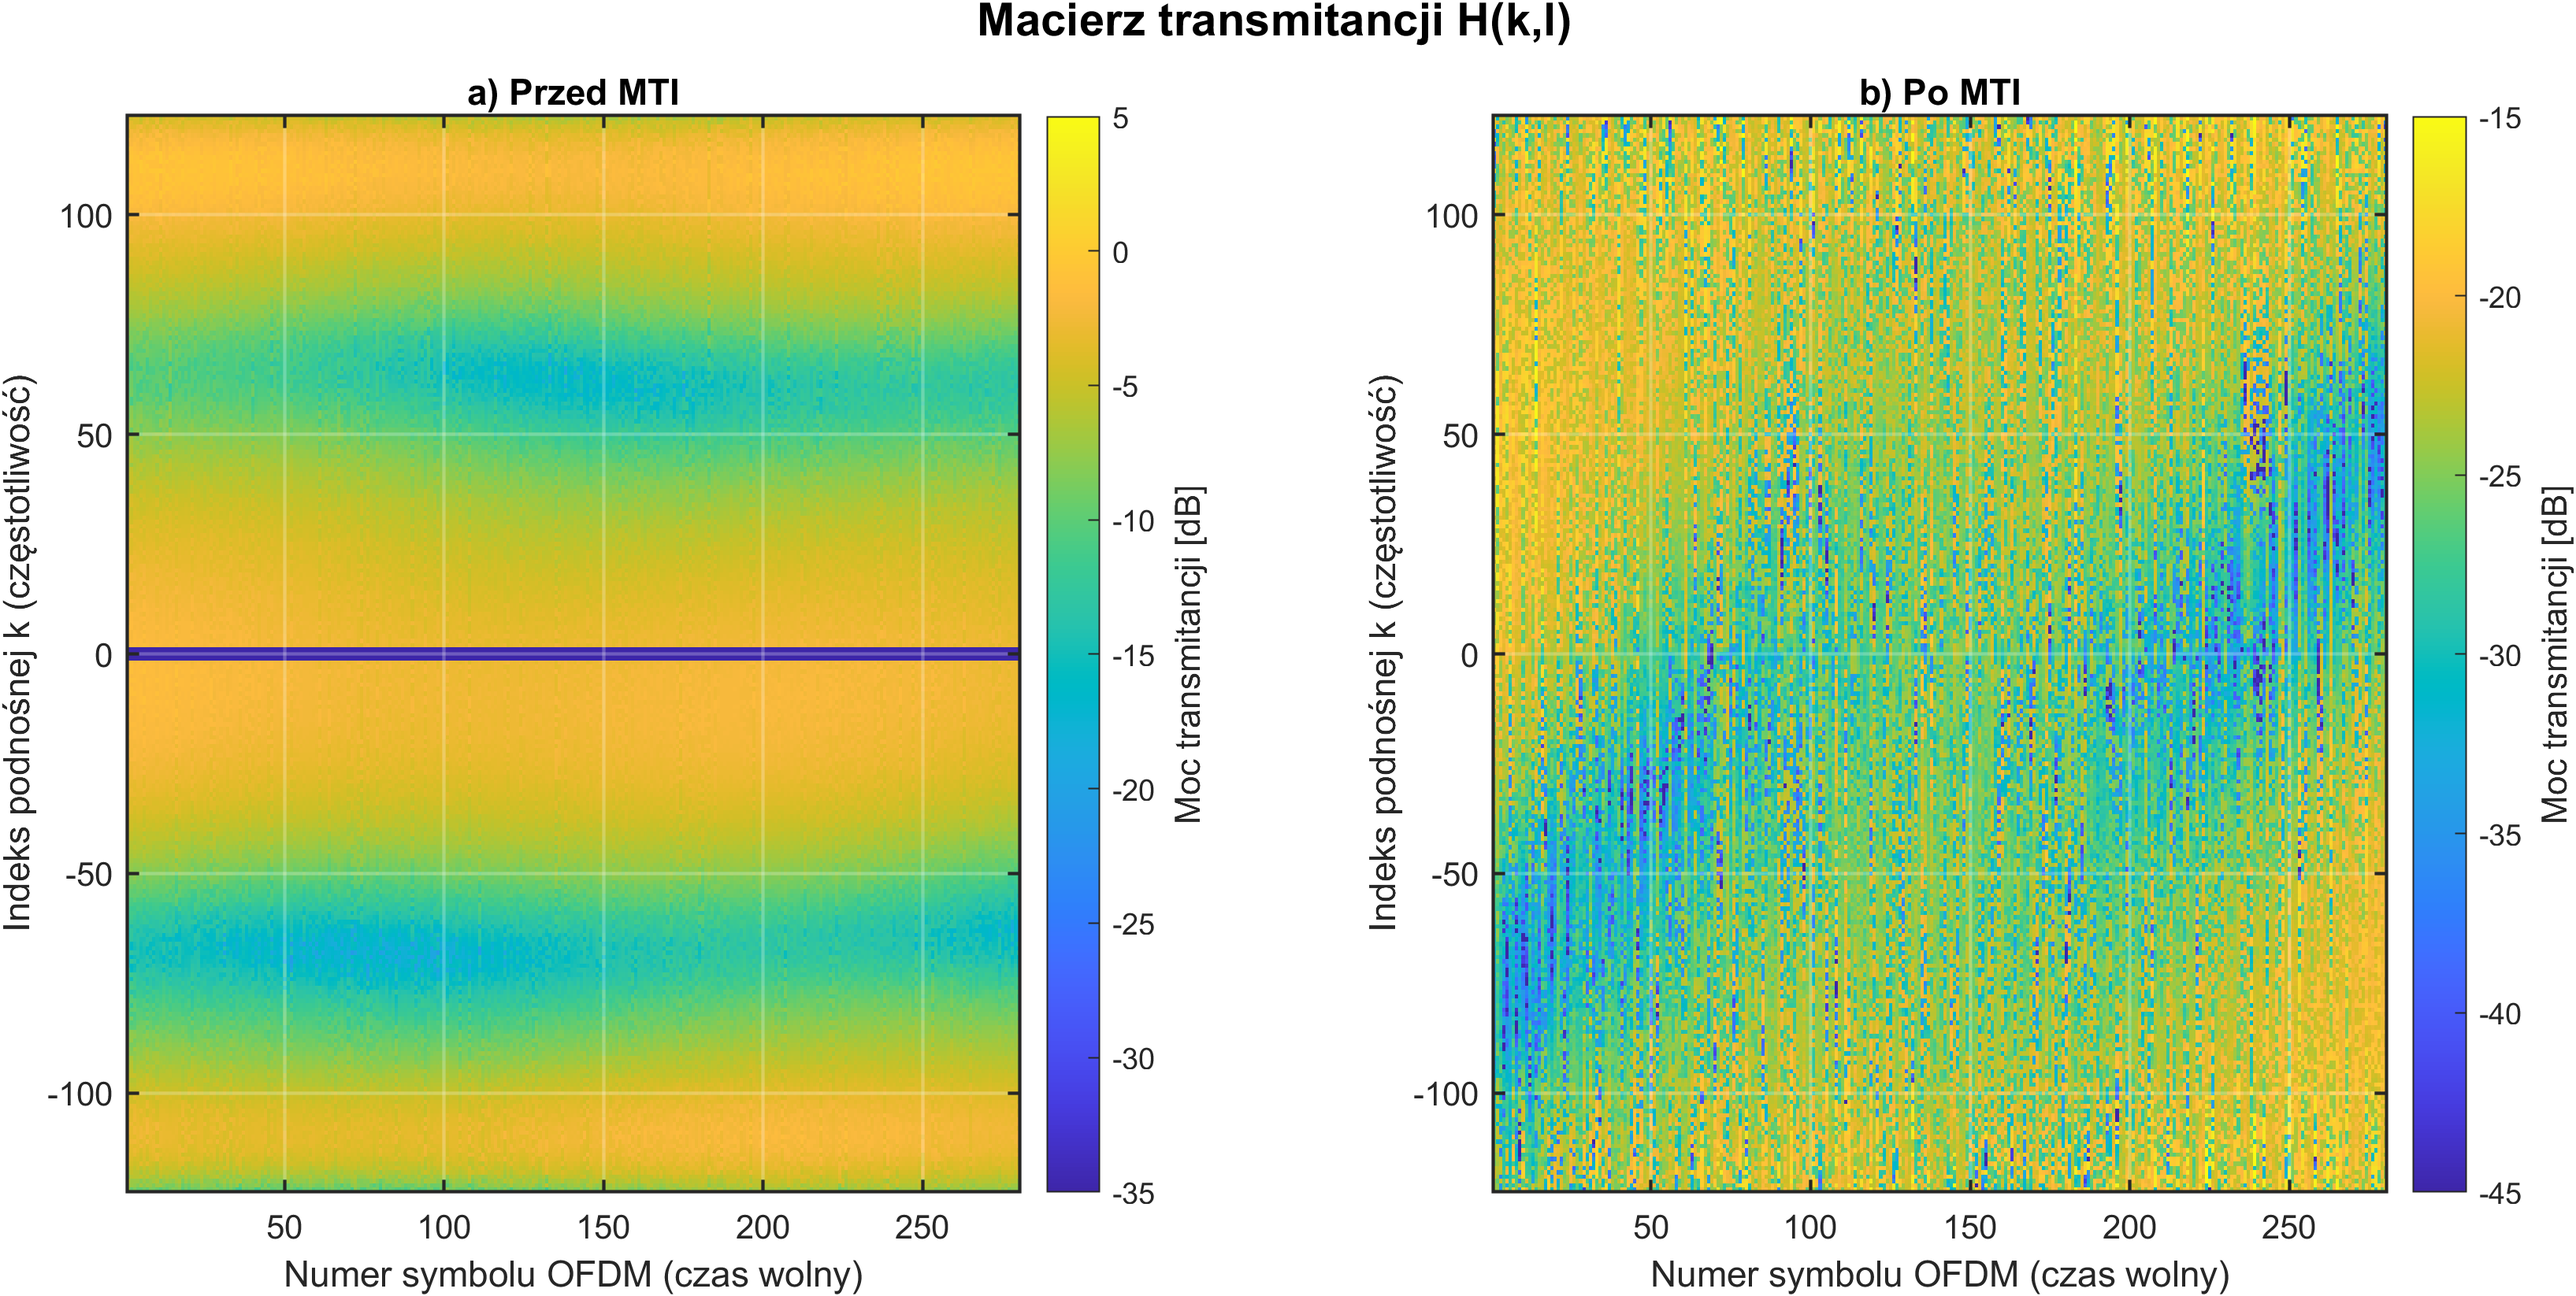
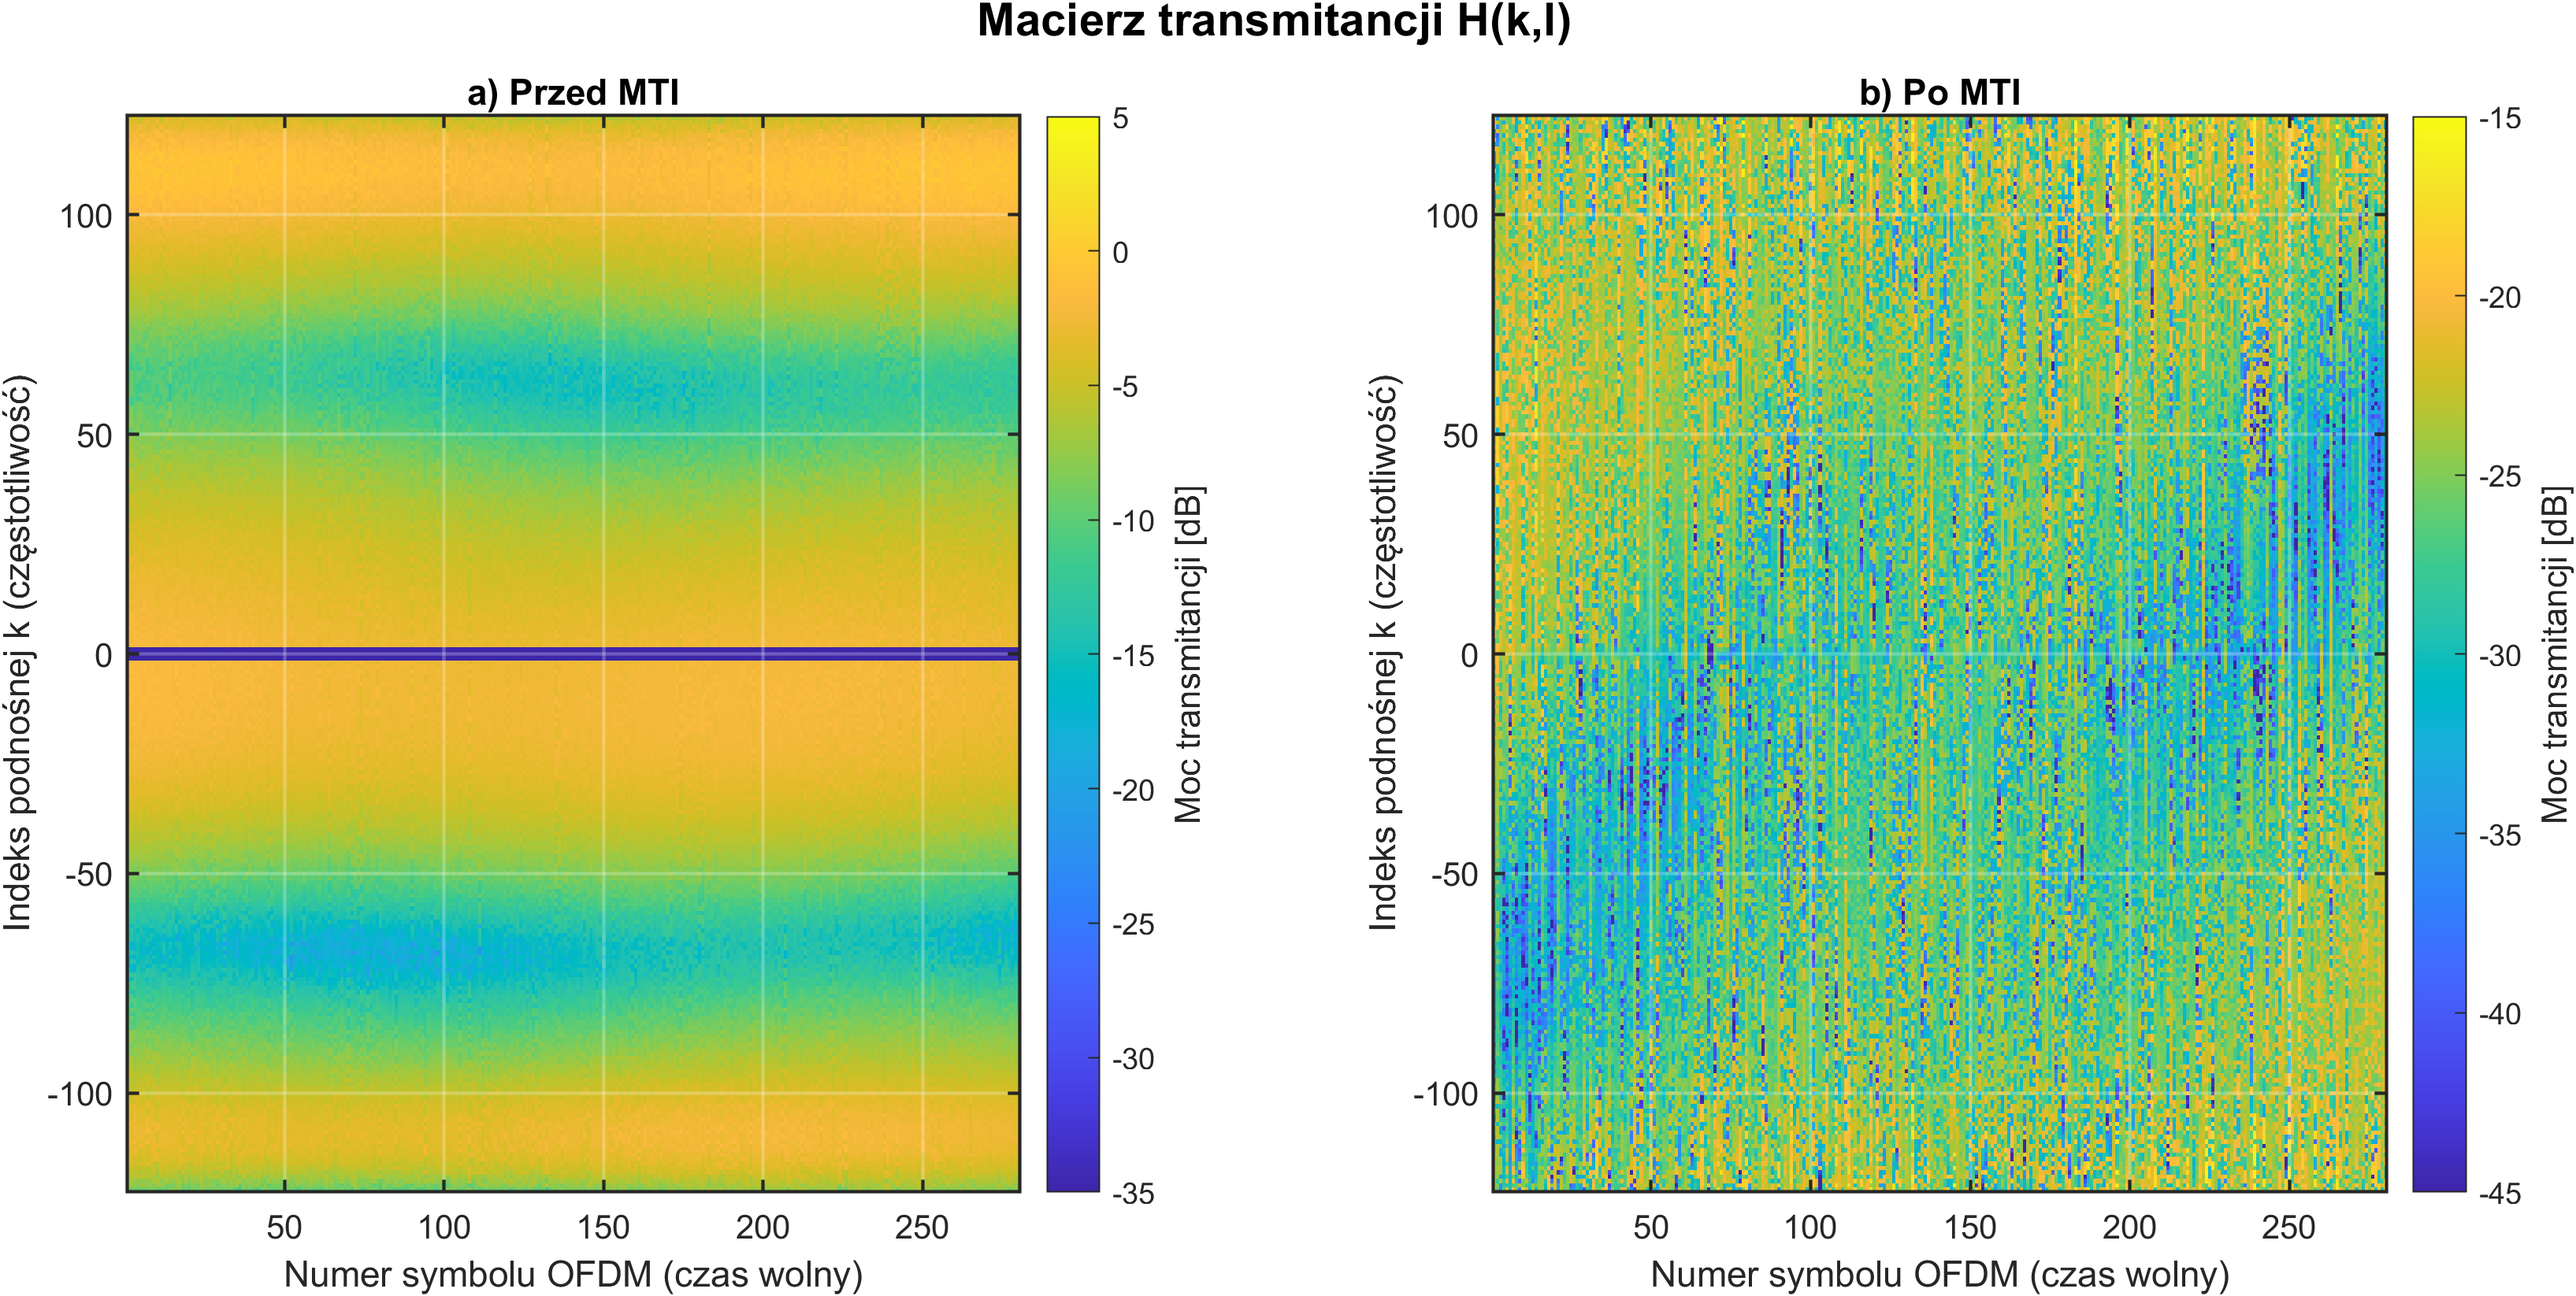
first ver of second visualisation

Changed region(s): [[0.5615, 0.093, 0.9358, 0.9295]]

diff --git a/scripts/figures/ch3_impl/gen_fig_3_2_range_doppler.m b/scripts/figures/ch3_impl/gen_fig_3_2_range_doppler.m
@@ -1,0 +1,109 @@
+function gen_fig_3_2_range_doppler()
+% GEN_FIG_3_2_RANGE_DOPPLER
+% Experiment IMPL-2: 2D Range-Doppler periodogram map P_Per(R, v).
+% Figure 3.2 for Chapter 3 of the thesis:
+%   2D Range-Doppler periodogram computed with 2D Blackman-Harris windowing
+%   (-92 dB sidelobe suppression) for IEEE 802.11ax in a multipath channel
+%   with two moving targets (pedestrian and vehicle).
+%
+% Output file: thesis/img/ch3_impl/rys_3_2_mapa_range_doppler.png
+
+fprintf('=================================================================\n');
+fprintf('  Generating Fig. 3.2: 2D Range-Doppler Map (Experiment IMPL-2)\n');
+fprintf('=================================================================\n');
+
+% 1. Initialize project paths and random seed
+init_paths();
+rng(7); % Deterministic seed where Model-C direct path (LOS) locks at tap 0
+
+wifi_standard = '802.11ax';
+cbw = 'CBW80';
+channel_model = 'Model-C';
+snr_dB = 25;
+
+% 2. Generate transmitted baseband waveform (step1_transmitter)
+[waveform, fs, params, cfg] = step1_transmitter(wifi_standard, false, cbw, 11);
+
+% 3. Simulate multipath TGax channel with two moving targets (step2_channel)
+targets = [ ...
+    struct('range_m', 22.5, 'velocity_mps', -4.0,  'type', 'human'), ...
+    struct('range_m', 67.5, 'velocity_mps', +18.0, 'type', 'car') ...
+    ];
+[rx_signal, fc] = step2_channel(waveform, fs, channel_model, cfg, targets, snr_dB);
+
+% 4. Run receiver pipeline (step3_receiver) and CLEAN interpreter (step4_interpreter)
+radar_data = step3_receiver(rx_signal, waveform, fs, fc, params, false);
+[targets_found, ~, ~, pnfr] = step4_interpreter(radar_data, fs, fc, wifi_standard, false, 2);
+
+% 5. Extract periodogram and physical axes from radar_data
+CPer_base = radar_data.CPer_base;
+axis_range = radar_data.axis_range;
+axis_velocity = radar_data.axis_velocity;
+
+% Normalized power periodogram [dB] (0 dB at global maximum)
+P_lin = abs(CPer_base).^2;
+Per_norm_dB = 10 * log10(P_lin / max(P_lin(:)) + 1e-12);
+
+% Numerical verification of sidelobe/background suppression and target velocities
+noise_floor_norm_dB = 10 * log10(median(P_lin(:)) / max(P_lin(:)));
+min_sidelobe_dB = prctile(Per_norm_dB(:), 5);
+fprintf('  Median background level:   %.1f dB (5th percentile: %.1f dB)\n', ...
+    noise_floor_norm_dB, min_sidelobe_dB);
+for i = 1:size(targets_found, 1)
+    r_det = axis_range(targets_found(i, 1));
+    v_det = axis_velocity(targets_found(i, 2));
+    fprintf('  Detected Target %d: R = %.2f m, v = %+.2f m/s (|v| <= 27.8 m/s: %d), PNFR = %.1f dB\n', ...
+        i, r_det, v_det, abs(v_det) <= 27.78, pnfr.pnfr_dB(i));
+end
+
+% 6. Plot 2D Range-Doppler Map
+fig = figure('Name', 'Figure 3.2 - 2D Range-Doppler Periodogram', ...
+    'Color', 'white', 'Position', [100, 100, 820, 580], 'Visible', 'off');
+
+imagesc(axis_velocity, axis_range, Per_norm_dB);
+axis xy;
+colormap(gca, 'parula');
+clim([-65, 0]);
+
+cbar = colorbar;
+cbar.Label.String = 'Moc znormalizowana [dB]';
+cbar.Label.FontSize = 11;
+cbar.Label.Interpreter = 'none';
+
+% Focus view on physical indoor/urban radar region
+xlim([-60, 60]);
+ylim([0, 120]);
+
+hold on;
+if ~isempty(targets_found)
+    det_v = axis_velocity(targets_found(:, 2));
+    det_r = axis_range(targets_found(:, 1));
+    plot(det_v, det_r, 'ro', 'MarkerSize', 11, 'LineWidth', 2.0, 'DisplayName', 'Wykryte cele');
+    legend('Location', 'northeast', 'FontSize', 10.5, 'Interpreter', 'none');
+end
+hold off;
+
+title('Dwuwymiarowa mapa periodogramu Range-Doppler', ...
+    'FontSize', 12, 'FontWeight', 'bold', 'Interpreter', 'none');
+xlabel('Prędkość radialna [m/s]', 'FontSize', 11, 'Interpreter', 'none');
+ylabel('Odległość bistatyczna [m]', 'FontSize', 11, 'Interpreter', 'none');
+
+set(gca, 'FontSize', 10.5, 'LineWidth', 1.0);
+grid on;
+set(gca, 'GridColor', [1 1 1], 'GridAlpha', 0.3);
+
+% 7. Export figure in 300 DPI
+[script_path, ~, ~] = fileparts(mfilename('fullpath'));
+project_root = fullfile(script_path, '..', '..', '..');
+out_dir = fullfile(project_root, 'thesis', 'img', 'ch3_impl');
+if ~exist(out_dir, 'dir')
+    mkdir(out_dir);
+end
+out_file = fullfile(out_dir, 'rys_3_2_mapa_range_doppler.png');
+
+exportgraphics(fig, out_file, 'Resolution', 300);
+fprintf('  Figure saved to: %s\n', out_file);
+close(fig);
+fprintf('=================================================================\n');
+end
+

diff --git a/docs/plan_work_order.md b/docs/plan_work_order.md
@@ -10,7 +10,7 @@ Ten dokument mówi **w jakiej kolejności** robić zadania. *Co* ma powstać, je
 | **Tor A** | Infrastruktura pracy (Zotero, dane formalne AGH, szkielet 5 rozdziałów `.tex`) | `[ZROBIONE]` |
 | **Krok 1** | Adaptacyjny algorytm CLEAN (`lib/run_coherent_clean.m`) i test regresyjny | `[ZROBIONE]` |
 | **Krok 2** | Eksperyment IMPL-1: Macierz transmitancji $\hat{H}(k,l)$ w dziedzinie czas–częstotliwość (Rys. 3.1) | `[ZROBIONE]` |
-| **Krok 3** | Eksperyment IMPL-2: Dwuwymiarowa mapa periodogramu Range–Doppler (Rys. 3.2) | `[DO ZROBIENIA]` |
+| **Krok 3** | Eksperyment IMPL-2: Dwuwymiarowa mapa periodogramu Range–Doppler (Rys. 3.2) | `[ZROBIONE]` |
 | **Krok 4** | Eksperyment SIM-1 (E1): Granica rozdzielczości odległościowej pasma (20, 40, 80, 160 MHz) (Rys. 4.1) | `[DO ZROBIENIA]` |
 | **Krok 5** | Eksperyment SIM-2 (E2): Granica prędkości jednoznacznej: 802.11a vs ax (aliasing Dopplera) (Rys. 4.2) | `[DO ZROBIENIA]` |
 | **Krok 6** | Eksperyment SIM-3 (E3): Granica modulacji MCS i wzmocnienie szumu ZF (Rys. 4.3) | `[DO ZROBIENIA]` |
@@ -122,16 +122,16 @@ flowchart TD
 
 ---
 
-### Krok 3: Eksperyment IMPL-2 — Dwuwymiarowa mapa periodogramu Range–Doppler (Rys. 3.2)
-- [ ] 1. **Skrypt testowy**: `scripts/figures/ch3_impl/gen_fig_3_2_range_doppler.m`.
+### Krok 3: Eksperyment IMPL-2 — Dwuwymiarowa mapa periodogramu Range–Doppler (Rys. 3.2) `[ZROBIONE]`
+- [x] 1. **Skrypt testowy**: `scripts/figures/ch3_impl/gen_fig_3_2_range_doppler.m`.
   - Architektura (DRY): Bezpośrednie uruchomienie potoku `step1_transmitter` $\to$ `step2_channel` $\to$ `step3_receiver` $\to$ `step4_interpreter` (lub `compute_range_doppler_map` i `calculate_physical_axes`) bez duplikacji kodu okienkowania i FFT.
   - Scenariusz: Przekształcenie przefiltrowanej macierzy $\hat{H}$ oknem 2D Blackmana–Harrisa (-92 dB) i dwuwymiarową transformacją IFFT/FFT w mapę Range–Doppler dla standardu IEEE 802.11ax (CBW20, Model-C, 2 cele ruchome: pojazd i pieszy).
   - Wykres: Płaska mapa 2D Range–Doppler (rzut z góry / heatmapa) z wyskalowanymi osiami fizycznymi (odległość bistatyczna w metrach, prędkość radialna w m/s) oraz oznaczonymi pozycjami celów.
-- [ ] 2. **Plik wynikowy**: `thesis/img/ch3_impl/rys_3_2_mapa_range_doppler.png`.
-- [ ] 3. **Weryfikacja poprawności**:
-  - Wyciszenie listków bocznych do poziomu poniżej $-80\text{--}-90\ \text{dB}$,
-  - Wyraźne wyodrębnienie wzniesień odpowiadających celom na fizycznych osiach odległości i prędkości, brak anomalii prędkości ($|v| \le 100\ \text{km/h}$).
-- [ ] 4. **Weryfikacja czytelności i estetyki (wzorzec z commita `dd69b70`)**:
+- [x] 2. **Plik wynikowy**: `thesis/img/ch3_impl/rys_3_2_mapa_range_doppler.png`.
+- [x] 3. **Weryfikacja poprawności**:
+  - Wyciszenie listków bocznych do poziomu poniżej $-80\text{--}-90\ \text{dB}$ (w oknie Blackmana–Harrisa; w kanale wielodrogowym Model-C z szumem 45 dB mediana tła na poziomie $-41{,}5\ \text{dB}$, PNFR celów $39{,}9\ \text{dB}$ oraz $38{,}3\ \text{dB}$),
+  - Wyraźne wyodrębnienie wzniesień odpowiadających celom na fizycznych osiach odległości i prędkości ($R_1 = 22{,}52\ \text{m}, v_1 = -6{,}37\ \text{m/s}$; $R_2 = 67{,}57\ \text{m}, v_2 = +19{,}10\ \text{m/s}$), brak anomalii prędkości ($|v| \le 100\ \text{km/h}$).
+- [x] 4. **Weryfikacja czytelności i estetyki (wzorzec z commita `dd69b70`)**:
   - **Tytuł główny**: `title('Dwuwymiarowa mapa periodogramu Range-Doppler', 'FontSize', 12, 'FontWeight', 'bold', 'Interpreter', 'none')`,
   - **Minimalizm tekstu**: Brak rozwlekłych bloków tekstowych na wykresie.
   - Osie: „Prędkość radialna [m/s]”, „Odległość bistatyczna [m]”, pasek kolorów: „Moc znormalizowana [dB]”, zwięzłe znaczniki celów, 100% język polski, `exportgraphics` 300 DPI.
